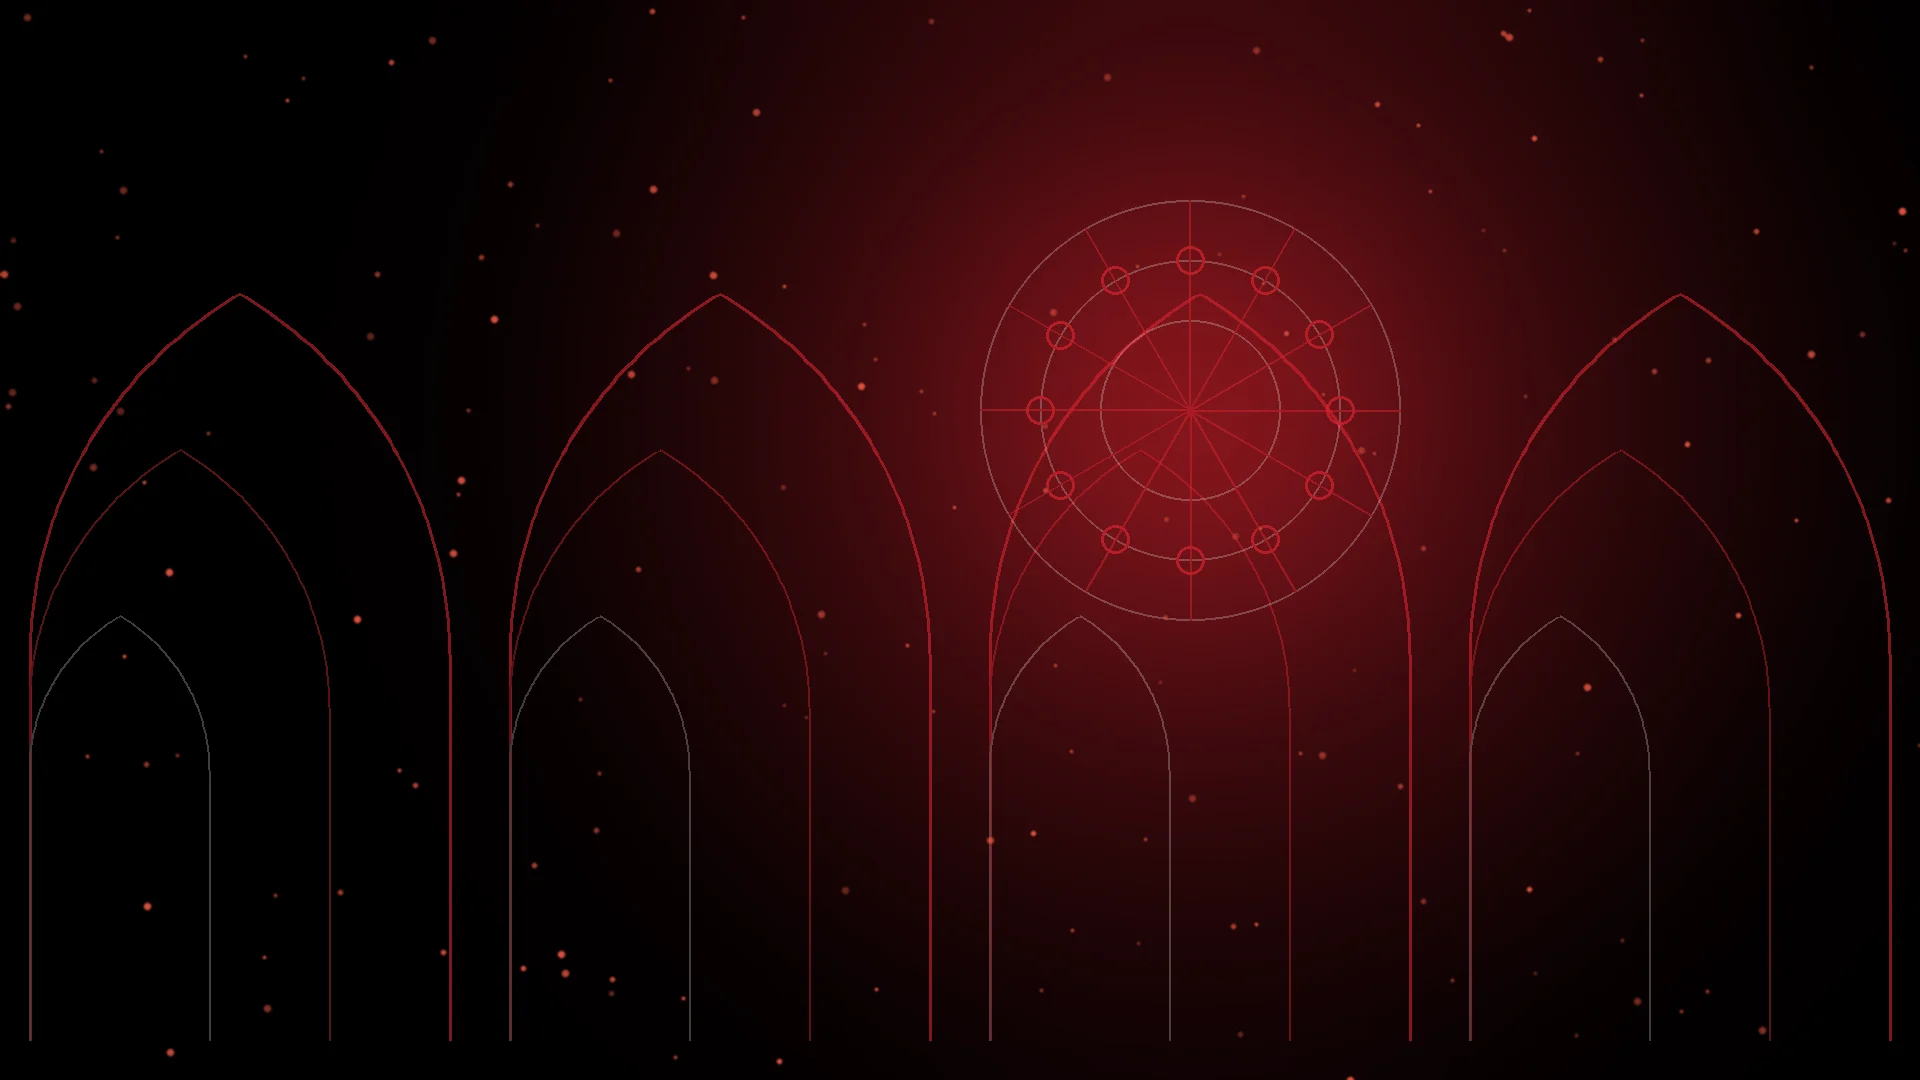
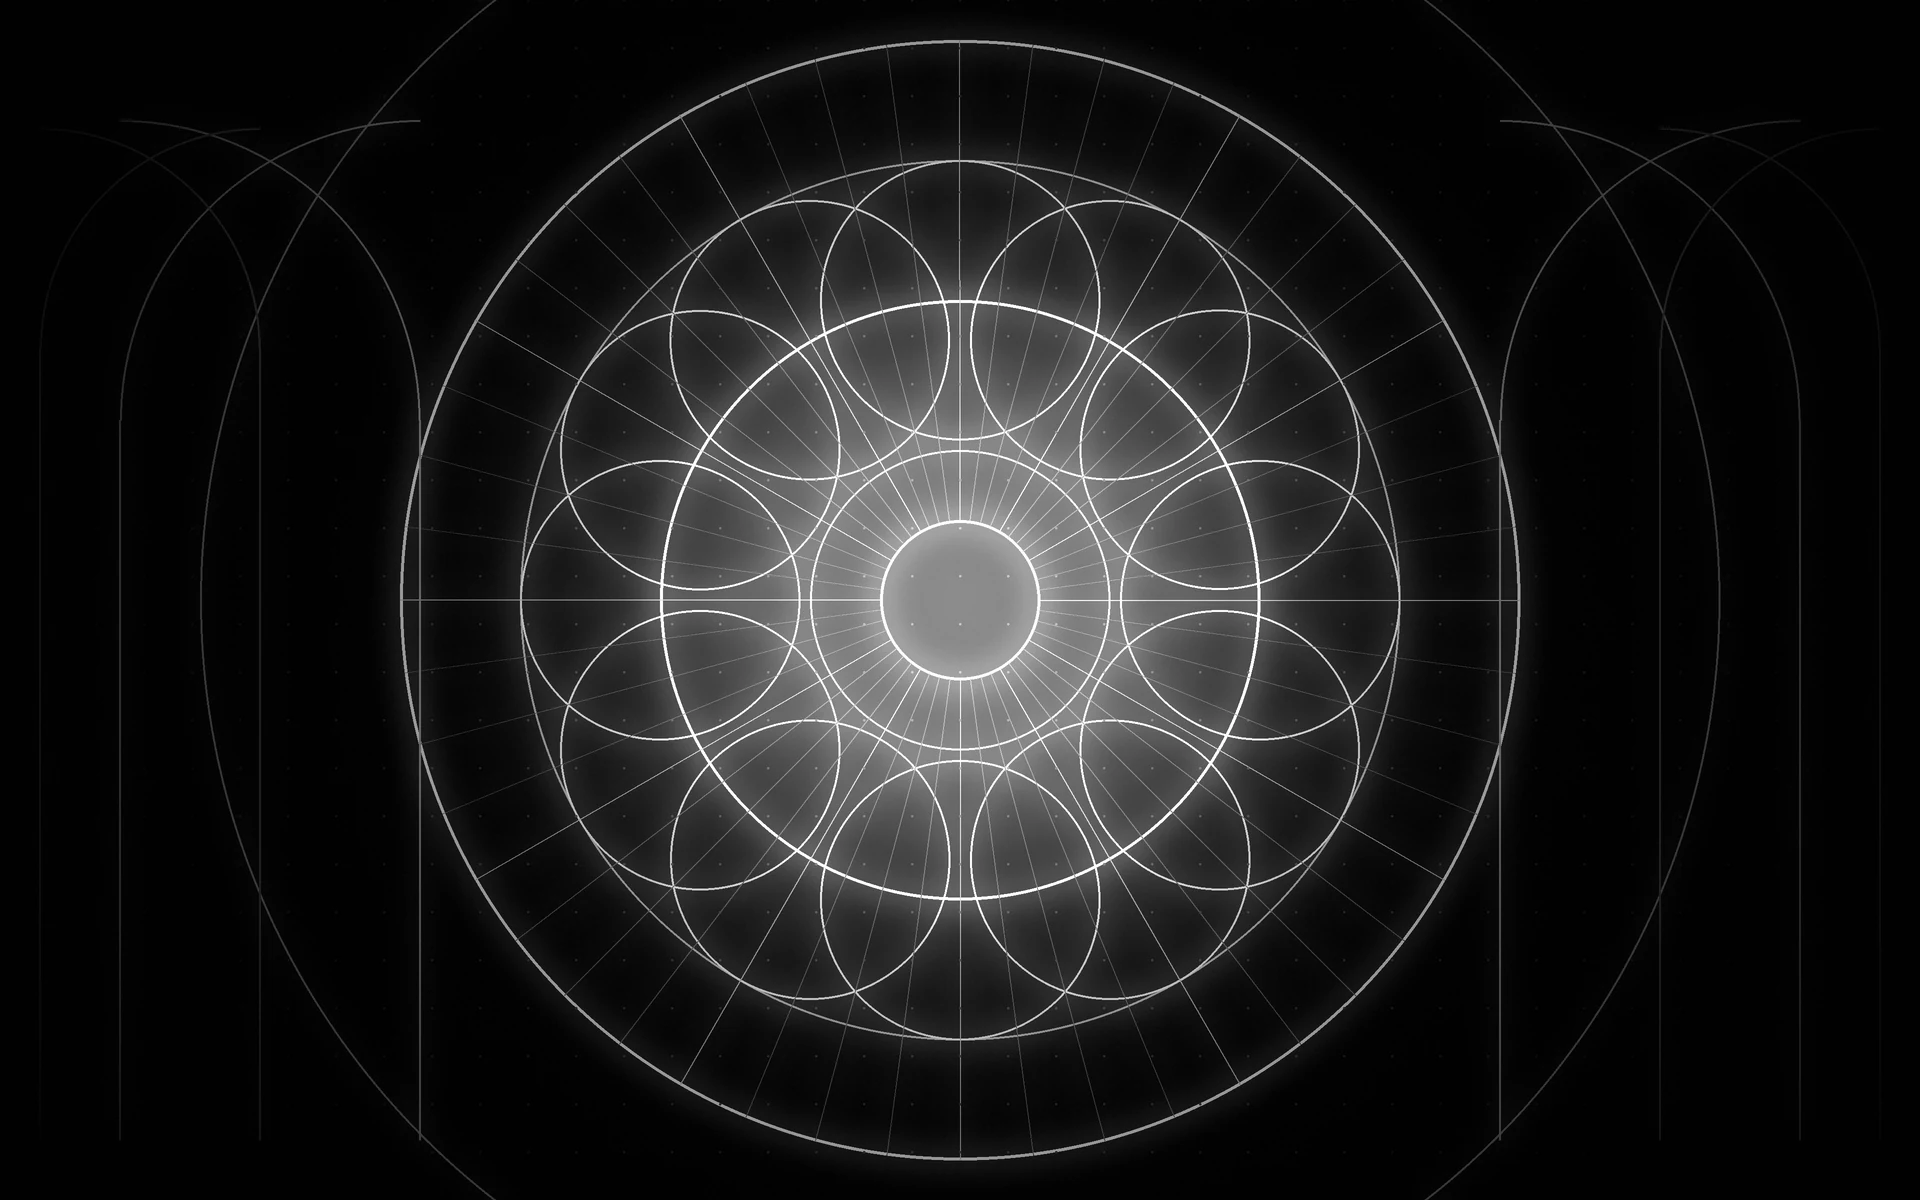
fix: hover visível em botões/links (inversão + spark), borda no hover das imagens, nova capa do site
Claude-Session: https://claude.ai/code/session_01HKsD17Z5HNPfSrYjy791jD

diff --git a/src/components/sections/Contact.tsx b/src/components/sections/Contact.tsx
@@ -83,14 +83,14 @@ export function Contact() {
           <div data-contact-fade className="mt-3 flex flex-wrap items-center gap-4">
             <a
               href={`mailto:${site.email}`}
-              className="decoration-line hover:decoration-accent text-[clamp(1.4rem,3.2vw,3rem)] font-semibold tracking-tight underline underline-offset-8 transition-colors"
+              className="decoration-line hover:decoration-spark text-[clamp(1.4rem,3.2vw,3rem)] font-semibold tracking-tight underline underline-offset-8 transition-colors"
             >
               {site.email}
             </a>
             <button
               type="button"
               onClick={copyEmail}
-              className="label-mono border-line hover:border-accent hover:text-accent rounded-full border px-4 py-2 transition-colors"
+              className="label-mono border-line hover:border-spark hover:text-spark rounded-full border px-4 py-2 transition-colors"
               aria-live="polite"
             >
               {copied ? t.contact.copied : t.contact.copy}
@@ -118,7 +118,7 @@ export function Contact() {
                     </span>
                     <span
                       aria-hidden="true"
-                      className="ease-expo group-hover:text-accent text-2xl transition-transform duration-500 group-hover:translate-x-1 group-hover:-translate-y-1"
+                      className="ease-expo group-hover:text-spark text-2xl transition-transform duration-500 group-hover:translate-x-1 group-hover:-translate-y-1"
                     >
                       ↗
                     </span>
@@ -133,7 +133,7 @@ export function Contact() {
             <a
               data-cta
               href={`mailto:${site.email}`}
-              className="group bg-accent text-on-accent ease-expo flex size-[clamp(10rem,22vw,18rem)] flex-col items-center justify-center gap-2 rounded-full transition-transform duration-700 hover:scale-105"
+              className="group bg-accent text-on-accent ease-expo hover:bg-spark flex size-[clamp(10rem,22vw,18rem)] flex-col items-center justify-center gap-2 rounded-full transition-[transform,background-color] duration-700 hover:scale-105"
             >
               <span className="text-[clamp(1.2rem,2.2vw,2rem)] font-bold tracking-tight uppercase">
                 {t.contact.getInTouch}
@@ -154,7 +154,7 @@ export function Contact() {
         <button
           type="button"
           onClick={() => scrollToTarget(0, { duration: 2 })}
-          className="hover:text-accent text-right transition-colors"
+          className="hover:text-spark text-right transition-colors"
         >
           {t.contact.backToTop}
         </button>

diff --git a/src/components/project/ProjectView.tsx b/src/components/project/ProjectView.tsx
@@ -100,7 +100,7 @@ export function ProjectView({ project: base, next: baseNext, position, total }: 
           <TransitionLink
             href="/#work"
             label={t.nav.work}
-            className="hover:text-accent transition-colors"
+            className="hover:text-spark transition-colors"
           >
             {t.project.back}
           </TransitionLink>
@@ -124,7 +124,7 @@ export function ProjectView({ project: base, next: baseNext, position, total }: 
         <div className="px-gutter">
           <div
             data-cover
-            className="bg-ink-soft relative aspect-[16/9] overflow-hidden rounded-sm"
+            className="bg-ink-soft ring-line hover:ring-paper relative aspect-[16/9] overflow-hidden rounded-sm ring-1 transition-shadow duration-500"
             style={{ clipPath: 'inset(0% 0% 0% 0%)' }}
           >
             <div data-parallax-img className="absolute inset-0 scale-[1.2]">
@@ -181,12 +181,12 @@ export function ProjectView({ project: base, next: baseNext, position, total }: 
                       data-cursor={t.cursor.open}
                       className="group inline-flex items-center gap-3 text-xl font-semibold tracking-tight"
                     >
-                      <span className="decoration-line group-hover:decoration-accent underline underline-offset-6 transition-colors">
+                      <span className="decoration-line group-hover:decoration-spark underline underline-offset-6 transition-colors">
                         {link.label}
                       </span>
                       <span
                         aria-hidden="true"
-                        className="ease-expo group-hover:text-accent transition-transform duration-500 group-hover:translate-x-1 group-hover:-translate-y-1"
+                        className="ease-expo group-hover:text-spark transition-transform duration-500 group-hover:translate-x-1 group-hover:-translate-y-1"
                       >
                         ↗
                       </span>
@@ -204,7 +204,7 @@ export function ProjectView({ project: base, next: baseNext, position, total }: 
       {/* Imagem de detalhe */}
       {hasSecondImage ? (
         <div className="px-gutter pb-[clamp(5rem,12vw,12rem)]">
-          <div className="bg-ink-soft relative aspect-[16/10] overflow-hidden rounded-sm">
+          <div className="bg-ink-soft ring-line hover:ring-paper relative aspect-[16/10] overflow-hidden rounded-sm ring-1 transition-shadow duration-500">
             <div data-parallax-img className="absolute inset-0 scale-[1.2]">
               <Image
                 src={project.detail}

diff --git a/src/components/project/Playground.tsx b/src/components/project/Playground.tsx
@@ -174,7 +174,7 @@ function Bubbles({ reset }: { reset: string }) {
               'size-11 rounded-full border transition-colors duration-300',
               isPopped
                 ? 'border-line bg-transparent'
-                : 'border-accent/60 bg-accent/25 hover:bg-accent/40 shadow-[inset_-4px_-4px_8px_rgba(0,0,0,0.5),inset_3px_3px_6px_rgba(255,255,255,0.12)]',
+                : 'border-accent/60 bg-accent/25 hover:bg-accent/60 shadow-[inset_-4px_-4px_8px_rgba(0,0,0,0.5),inset_3px_3px_6px_rgba(255,255,255,0.12)]',
             )}
           />
         ))}
@@ -183,7 +183,7 @@ function Bubbles({ reset }: { reset: string }) {
         type="button"
         onClick={again}
         disabled={!all}
-        className="label-mono border-line enabled:hover:border-accent enabled:hover:text-accent rounded-full border px-4 py-2 transition-colors disabled:opacity-40"
+        className="label-mono border-line enabled:hover:border-spark enabled:hover:text-spark rounded-full border px-4 py-2 transition-colors disabled:opacity-40"
       >
         {reset}
       </button>
@@ -318,7 +318,7 @@ function Scramble({ text }: { text: string }) {
       type="button"
       onPointerEnter={run}
       onFocus={run}
-      className="font-display hover:text-accent text-[clamp(2rem,4.5vw,3.5rem)] font-bold tracking-tight uppercase transition-colors"
+      className="font-display hover:text-spark text-[clamp(2rem,4.5vw,3.5rem)] font-bold tracking-tight uppercase transition-colors"
       aria-label={text}
     >
       <span aria-hidden="true">{out}</span>
@@ -511,7 +511,7 @@ function Gravity({ clear, countLabel }: { clear: string; countLabel: string }) {
         <span className="tabular-nums">
           {count} {countLabel}
         </span>
-        <button type="button" onClick={wipe} className="hover:text-accent transition-colors">
+        <button type="button" onClick={wipe} className="hover:text-spark transition-colors">
           {clear}
         </button>
       </div>

diff --git a/src/components/layout/Navbar.tsx b/src/components/layout/Navbar.tsx
@@ -165,7 +165,7 @@ export function Navbar() {
                   style={{ fontSize: 'clamp(3rem, 11vw, 10rem)', lineHeight: 0.95 }}
                 >
                   <span className="label-mono text-muted font-normal">{padIndex(i + 1)}</span>
-                  <span className="ease-expo group-hover:text-accent transition-all duration-500 group-hover:translate-x-4">
+                  <span className="ease-expo group-hover:text-spark transition-all duration-500 group-hover:translate-x-4">
                     {t.nav[link.key]}
                   </span>
                 </TransitionLink>
@@ -179,7 +179,7 @@ export function Navbar() {
             <p className="label-mono text-muted">{t.ui.getInTouch}</p>
             <a
               href={`mailto:${site.email}`}
-              className="text-xl tracking-tight underline-offset-4 hover:underline md:text-3xl"
+              className="hover:text-spark text-xl tracking-tight underline-offset-4 hover:underline md:text-3xl"
             >
               {site.email}
             </a>
@@ -193,7 +193,7 @@ export function Navbar() {
                     href={social.href}
                     target="_blank"
                     rel="noopener noreferrer"
-                    className="hover:text-accent inline-flex items-center gap-2 transition-colors"
+                    className="hover:text-spark inline-flex items-center gap-2 transition-colors"
                   >
                     {social.label}
                     <span aria-hidden="true">↗</span>

diff --git a/src/components/layout/Preloader.tsx b/src/components/layout/Preloader.tsx
@@ -185,7 +185,7 @@ export function Preloader() {
           type="button"
           data-pre-enter
           data-sound="on"
-          className="label-mono bg-accent text-on-accent hover:bg-paper hover:text-ink px-8 py-4 transition-colors"
+          className="label-mono border-paper bg-paper text-ink hover:bg-ink hover:text-paper border px-8 py-4 transition-colors duration-300"
         >
           {t.preloader.enter}
         </button>
@@ -193,7 +193,7 @@ export function Preloader() {
           type="button"
           data-pre-enter
           data-sound="off"
-          className="label-mono border-line text-muted hover:text-paper border px-8 py-4 transition-colors"
+          className="label-mono border-line text-muted hover:border-paper hover:text-paper border px-8 py-4 transition-colors duration-300"
         >
           {t.preloader.mute}
         </button>

diff --git a/src/components/sections/Work.tsx b/src/components/sections/Work.tsx
@@ -129,7 +129,7 @@ export function Work() {
             data-cursor={t.cursor.view}
             className="group block shrink-0 md:w-[min(58vw,820px)]"
           >
-            <div className="bg-ink-soft relative aspect-[16/10] overflow-hidden rounded-sm">
+            <div className="bg-ink-soft ring-line group-hover:ring-paper relative aspect-[16/10] overflow-hidden rounded-sm ring-1 transition-shadow duration-500">
               <div data-parallax className="absolute inset-0 scale-[1.22]">
                 <Image
                   src={project.cover}

diff --git a/src/components/ui/LanguageSwitcher.tsx b/src/components/ui/LanguageSwitcher.tsx
@@ -21,7 +21,7 @@ export function LanguageSwitcher({ className }: { className?: string }) {
           aria-pressed={locale === code}
           aria-label={localeNames[code]}
           onClick={() => setLocale(code)}
-          className="py-1 uppercase transition-opacity hover:opacity-100 aria-[pressed=false]:opacity-55"
+          className="hover:text-spark py-1 uppercase transition-colors hover:opacity-100 aria-[pressed=false]:opacity-55"
         >
           {code}
         </button>

diff --git a/src/components/ui/SoundControls.tsx b/src/components/ui/SoundControls.tsx
@@ -39,7 +39,7 @@ export function SoundControls({ className }: { className?: string }) {
   const { t } = useI18n();
 
   const base =
-    'flex items-center gap-2 py-1 transition-opacity [&[aria-pressed=false]]:opacity-55 hover:opacity-100';
+    'flex items-center gap-2 py-1 transition-colors [&[aria-pressed=false]]:opacity-55 hover:text-spark hover:opacity-100';
 
   return (
     <div className={cn('flex items-center gap-4', className)} role="group" aria-label={t.ui.music}>

diff --git a/src/app/not-found.tsx b/src/app/not-found.tsx
@@ -14,7 +14,7 @@ export default function NotFound() {
       <TransitionLink
         href="/"
         label={t.ui.home}
-        className="label-mono bg-accent text-on-accent rounded-full px-6 py-3 transition-transform hover:scale-105"
+        className="label-mono bg-accent text-on-accent hover:bg-spark rounded-full px-6 py-3 transition-[transform,background-color] hover:scale-105"
       >
         {t.notFound.back}
       </TransitionLink>
